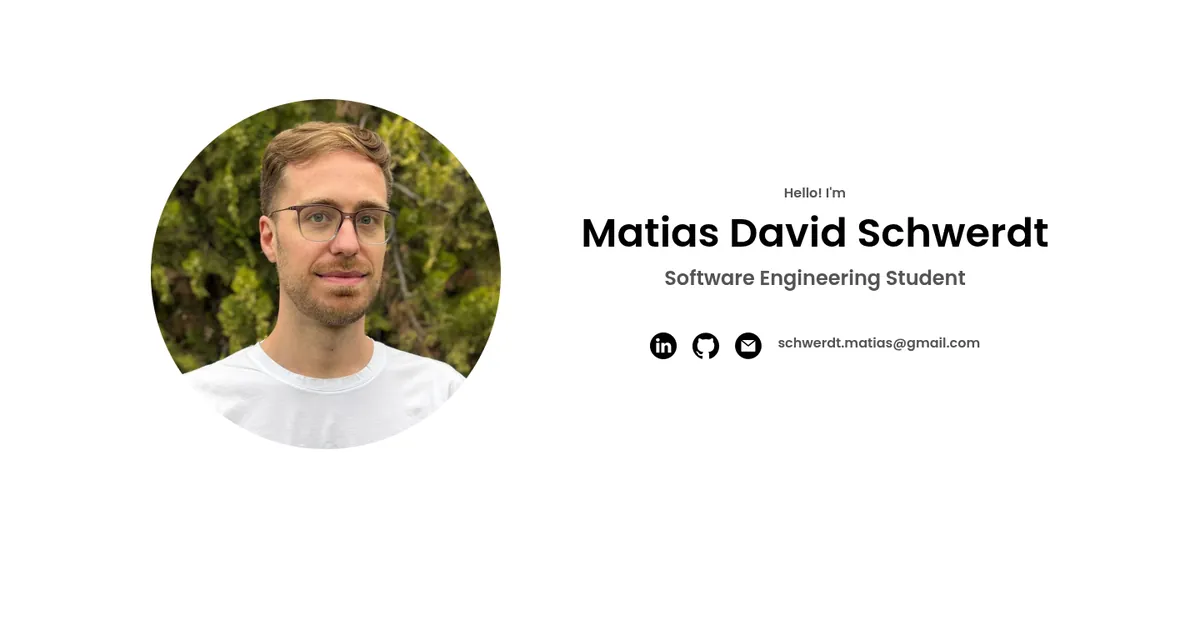
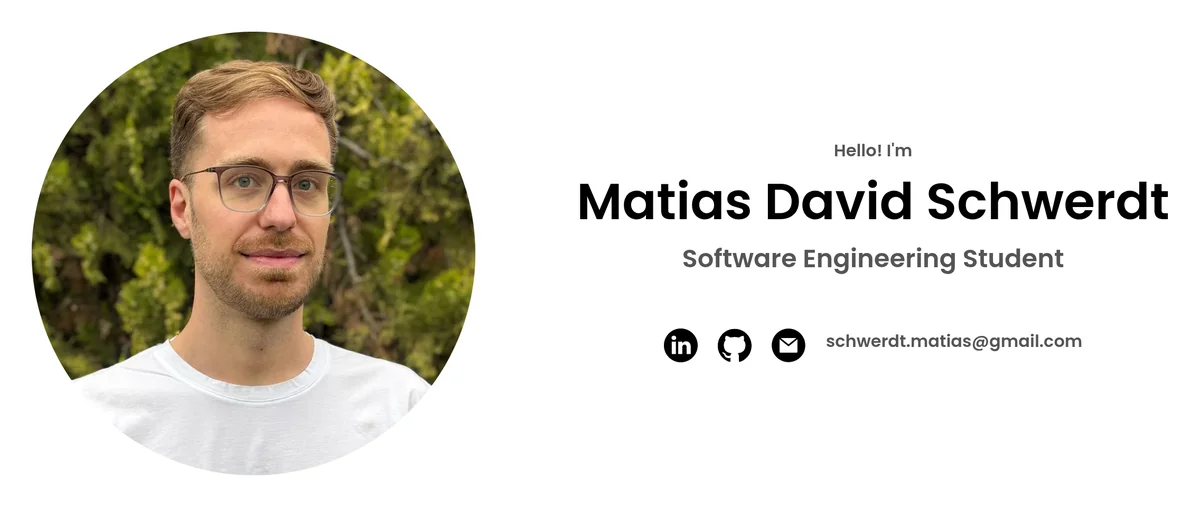
fix: crop the Portfolio card image to its content
The full-page screenshot left the photo and name small inside the card.
Crop to the content at 2x and bump the cache versions to v=3.

Changed region(s): [[0.0, 0.0592, 0.4317, 0.9467], [0.4625, 0.2663, 0.9867, 0.5917], [0.555, 0.6509, 0.8942, 0.7101]]

diff --git a/script.js b/script.js
@@ -7,7 +7,7 @@ const projectCards = [];
 let renderedColumnCount = 0;
 
 window.addEventListener("DOMContentLoaded", () => {
-  fetch("projects.csv?v=2")
+  fetch("projects.csv?v=3")
     .then((response) => response.text())
     .then((data) => {
       parseCSV(data).forEach((project) => {

diff --git a/index.html b/index.html
@@ -99,7 +99,7 @@
   </div>
 
 
-  <script src="script.js?v=2"></script>
+  <script src="script.js?v=3"></script>
 
 
 </body>
